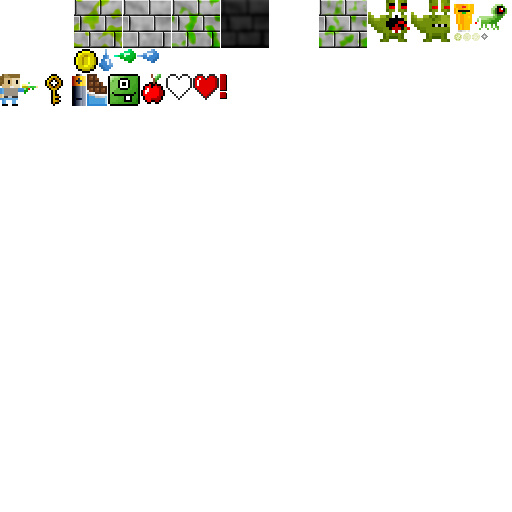
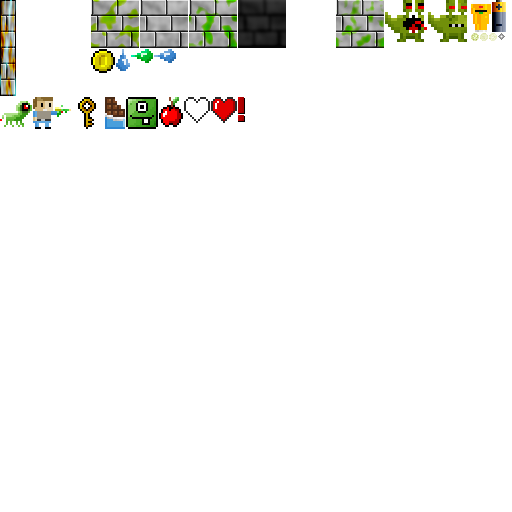
Added doors.

Changed region(s): [[0.0, 0.0, 0.5, 0.25], [0.625, 0.0, 1.0, 0.0938], [0.5, 0.0, 0.5625, 0.0938]]

diff --git a/src/entities/door.c b/src/entities/door.c
@@ -1,0 +1,146 @@
+/*
+Copyright (C) 2019 Parallel Realities
+
+This program is free software; you can redistribute it and/or
+modify it under the terms of the GNU General Public License
+as published by the Free Software Foundation; either version 2
+of the License, or (at your option) any later version.
+
+This program is distributed in the hope that it will be useful,
+but WITHOUT ANY WARRANTY; without even the implied warranty of
+MERCHANTABILITY or FITNESS FOR A PARTICULAR PURPOSE.
+
+See the GNU General Public License for more details.
+
+You should have received a copy of the GNU General Public License
+along with this program; if not, write to the Free Software
+Foundation, Inc., 59 Temple Place - Suite 330, Boston, MA  02111-1307, USA.
+
+*/
+
+#include "door.h"
+
+static void tick(void);
+static void activate(int active);
+static void touch(Entity *other);
+static void load(cJSON *root);
+static void save(cJSON *root);
+
+void initDoor(Entity *e)
+{
+	Door *d;
+	
+	d = malloc(sizeof(Door));
+	memset(d, 0, sizeof(Door));
+	
+	d->sx = e->x;
+	d->sy = e->y;
+	d->ex = e->x;
+	d->ey = e->y;
+	
+	e->typeName = "door";
+	e->type = ET_STRUCTURE;
+	e->data = d;
+	e->tick = tick;
+	e->activate = activate;
+	e->touch = touch;
+	e->atlasImage = getAtlasImage("gfx/entities/door.png", 1);
+	e->w = e->atlasImage->rect.w;
+	e->h = e->atlasImage->rect.h;
+	e->flags = EF_SOLID+EF_WEIGHTLESS+EF_PUSH+EF_NO_WORLD_CLIP;
+	e->background = 1;
+	
+	/* when opened */
+	d->ey = e->y - (e->h - 4);
+	
+	e->load = load;
+	e->save = save;
+}
+
+static void tick(void)
+{
+	Door *d;
+	
+	d = (Door*)self->data;
+	
+	self->dy = 0;
+	self->flags |= EF_STATIC;
+	
+	if (d->open)
+	{
+		if (self->y > d->ey)
+		{
+			self->dy = -4;
+			
+			self->y = MAX(self->y, d->ey);
+			
+			self->flags &= ~EF_STATIC;
+		}
+	}
+	else
+	{
+		if (self->y < d->sy)
+		{
+			self->dy = 4;
+			
+			self->y = MIN(self->y, d->sy);
+			
+			self->flags &= ~EF_STATIC;
+		}
+	}
+}
+
+static void activate(int active)
+{
+	Door *d;
+	
+	d = (Door*)self->data;
+	
+	d->open = !d->open;
+	
+	playPositionalSound(SND_DOOR, CH_STRUCTURE, self->x, self->y, stage.player->x, stage.player->y);
+}
+
+static void touch(Entity *other)
+{
+	Door *d;
+	
+	if (other == stage.player)
+	{
+		d = (Door*)self->data;
+		
+		if (d->requiresKey && stage.keys > 0)
+		{
+			d->requiresKey = 0;
+			stage.keys--;
+		}
+		
+		if (!d->open && !d->requiresKey)
+		{
+			d->open = 1;
+			self->flags |= EF_NO_WORLD_CLIP;
+			
+			playPositionalSound(SND_DOOR, CH_STRUCTURE, self->x, self->y, stage.player->x, stage.player->y);
+		}
+	}
+}
+
+static void load(cJSON *root)
+{
+	Door *d;
+	
+	d = (Door*)self->data;
+	
+	d->open = cJSON_GetObjectItem(root, "open")->valueint;
+	d->requiresKey = cJSON_GetObjectItem(root, "requiresKey")->valueint;
+}
+
+static void save(cJSON *root)
+{
+	Door *d;
+	
+	d = (Door*)self->data;
+	
+	cJSON_AddNumberToObject(root, "open", d->open);
+	cJSON_AddNumberToObject(root, "requiresKey", d->requiresKey);
+}

diff --git a/src/entities/door.h b/src/entities/door.h
@@ -21,12 +21,8 @@ Foundation, Inc., 59 Temple Place - Suite 330, Boston, MA  02111-1307, USA.
 #include "../common.h"
 #include "../json/cJSON.h"
 
-extern void initCoin(Entity *e);
-extern void initGreenBugEyedMonster(Entity *e);
-extern void initGreenHorse(Entity *e);
-extern void initKey(Entity *e);
-extern void initDoor(Entity *e);
-extern void initPlayer(Entity *e);
+extern AtlasImage *getAtlasImage(char *filename, int required);
+extern void playPositionalSound(int snd, int ch, int srcX, int srcY, int destX, int destY);
 
 extern Entity *self;
 extern Stage stage;

diff --git a/src/structs.h b/src/structs.h
@@ -114,6 +114,15 @@ typedef struct {
 	int health;
 } Bullet;
 
+typedef struct {
+	int sx;
+	int sy;
+	int ex;
+	int ey;
+	int open;
+	int requiresKey;
+} Door;
+
 struct Particle {
 	float x;
 	float y;
@@ -140,6 +149,7 @@ typedef struct {
 	int num;
 	int map[MAP_WIDTH][MAP_HEIGHT];
 	int numMonsters, totalMonsters;
+	int keys;
 	AtlasImage *tiles[MAX_TILES];
 	Entity entityHead, *entityTail;
 	Entity *player;

diff --git a/src/world/entityFactory.c b/src/world/entityFactory.c
@@ -32,6 +32,7 @@ void initEntityFactory(void)
 	
 	addInitFunc("player", initPlayer);
 	addInitFunc("coin", initCoin);
+	addInitFunc("door", initDoor);
 	addInitFunc("key", initKey);
 	addInitFunc("greenBugEyedMonster", initGreenBugEyedMonster);
 	addInitFunc("greenHorse", initGreenHorse);

diff --git a/src/entities/key.c b/src/entities/key.c
@@ -58,6 +58,8 @@ static void touch(Entity *other)
 {
 	if (self->alive == ALIVE_ALIVE && other != NULL && other->type == ET_PLAYER)
 	{
+		stage.keys++;
+		
 		self->alive = ALIVE_DEAD;
 		
 		playPositionalSound(SND_KEY, CH_ITEM, self->x, self->y, stage.player->x, stage.player->y);

diff --git a/src/defs.h b/src/defs.h
@@ -124,6 +124,7 @@ enum
 	SND_COIN,
 	SND_KEY,
 	SND_DEATH,
+	SND_DOOR,
 	SND_MAX
 };
 
@@ -133,6 +134,7 @@ enum
 	CH_SHOOT,
 	CH_HIT,
 	CH_ITEM,
+	CH_STRUCTURE,
 	CH_MAX
 };
 
